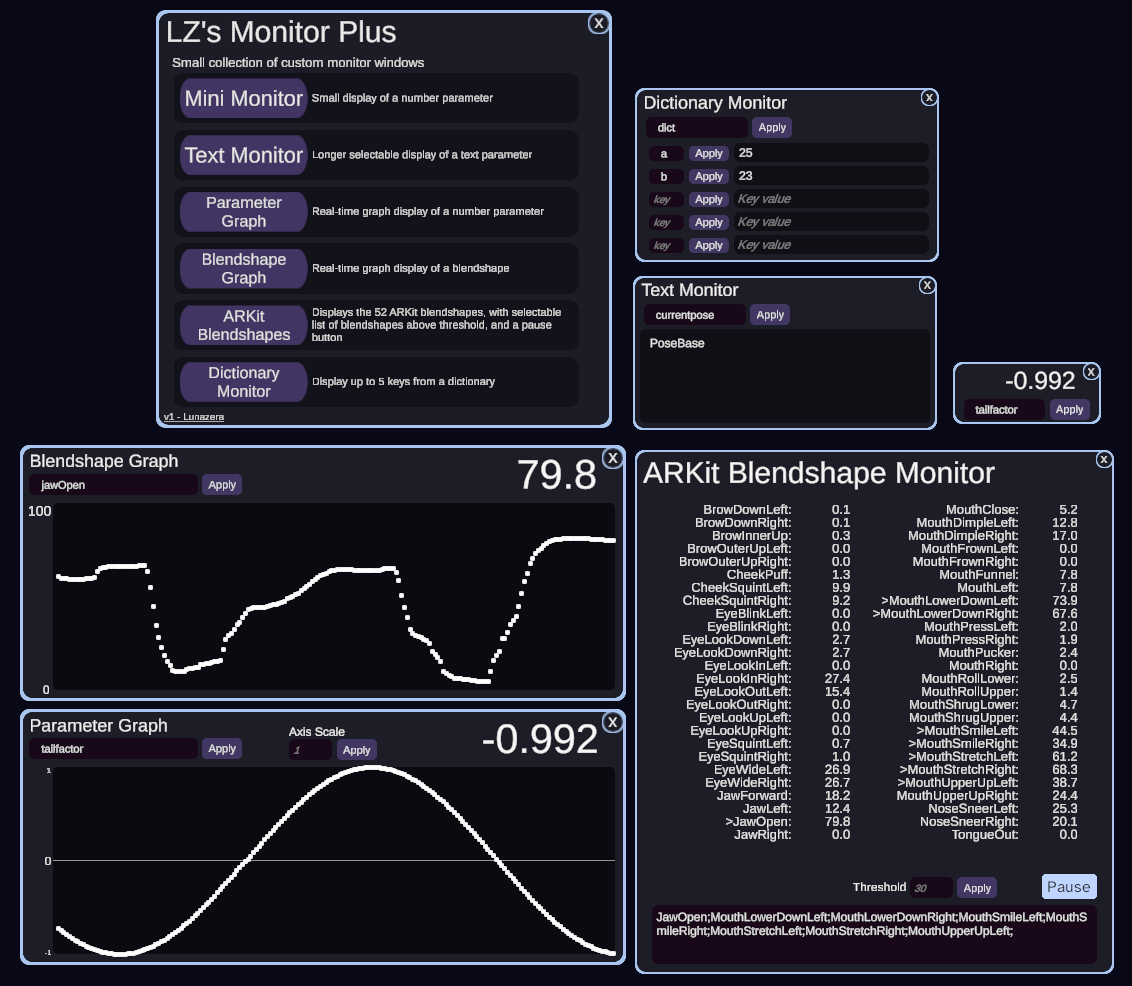
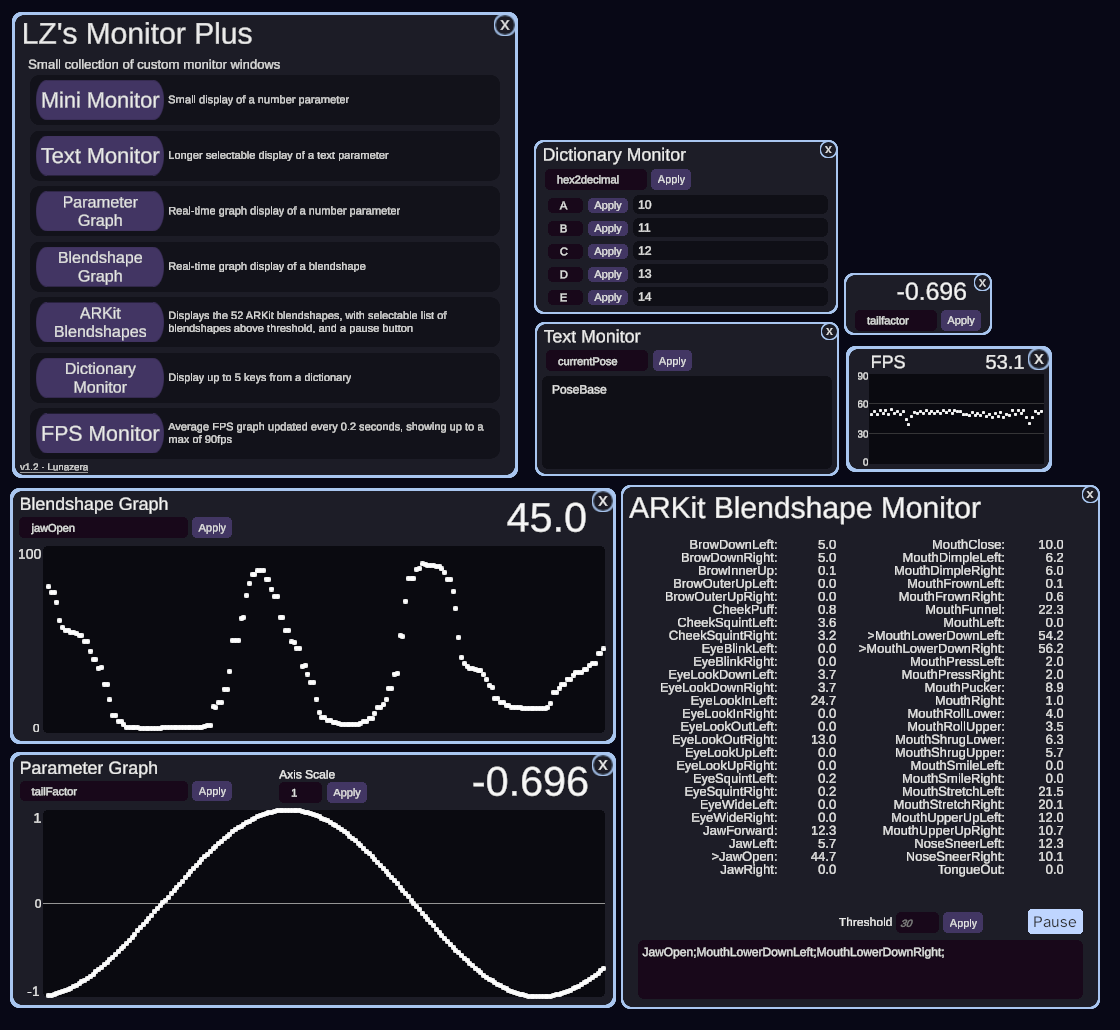
quick adjustment/fix for some of the graphs, linked axis text to change theme functions

diff --git a/project_files/src/FPSMonitor.cs b/project_files/src/FPSMonitor.cs
@@ -46,6 +46,12 @@ namespace VNyanMonitorPlus
         [SerializeField] private float MaxFPS = 120f;
         private float[]? DataArray;
 
+        [Header("FPS Graph axis")]
+        [SerializeField] private TMP_Text axis0;
+        [SerializeField] private TMP_Text axis30;
+        [SerializeField] private TMP_Text axis60;
+        [SerializeField] private TMP_Text axis90;
+
         public void AddNewPoint(Vector3 position, int i)
         {
             GameObject datum = Instantiate<GameObject>(DataPointPrefab);
@@ -160,6 +166,11 @@ namespace VNyanMonitorPlus
             closeButton.GetComponent<Outline>().effectColor = Borders;
             closeButton.GetComponentInChildren<TMP_Text>().color = TextColor;
             FPSText.GetComponent<TMP_Text>().color = TextColor;
+
+            axis0.color = PanelComponentTextColor;
+            axis30.color = PanelComponentTextColor;
+            axis60.color = PanelComponentTextColor;
+            axis90.color = PanelComponentTextColor;
         }
 
         public void OnDrag(PointerEventData eventData)

diff --git a/project_files/src/BlendshapeGraph.cs b/project_files/src/BlendshapeGraph.cs
@@ -39,6 +39,8 @@ namespace VNyanMonitorPlus
         private float spaceBetweenPoint;
         private float axisHeightLimits = 100;
         [SerializeField] public TMP_Text parameterValueText;
+        [SerializeField] private TMP_Text axis0;
+        [SerializeField] private TMP_Text axis100;
 
         [Header("Controls")]
         [SerializeField] private TMP_Text axisMax;
@@ -181,6 +183,9 @@ namespace VNyanMonitorPlus
             closeButton.GetComponent<Image>().color = Panel;
             closeButton.GetComponent<Outline>().effectColor = Borders;
             closeButton.GetComponentInChildren<TMP_Text>().color = TextColor;
+
+            axis0.color = PanelComponentTextColor;
+            axis100.color = PanelComponentTextColor;
 
             // Text for parameter display
             parameterValueText.GetComponent<TMP_Text>().color = TextColor;

diff --git a/project_files/src/ParamGraph.cs b/project_files/src/ParamGraph.cs
@@ -39,6 +39,7 @@ namespace VNyanMonitorPlus
         private float spaceBetweenPoint;
         private float axisHeightLimits = 100;
         [SerializeField] public TMP_Text parameterValueText;
+        [SerializeField] public TMP_Text axiszero;
 
         [Header("Controls")]
         [SerializeField] private TMP_Text axisMin;
@@ -186,6 +187,10 @@ namespace VNyanMonitorPlus
             closeButton.GetComponentInChildren<TMP_Text>().color = TextColor;
 
             parameterValueText.GetComponent<TMP_Text>().color = TextColor;
+
+            axisMin.color = PanelComponentTextColor;
+            axisMax.color = PanelComponentTextColor;
+            axiszero.color = PanelComponentTextColor;
 
             // Set Axis input colours 
             // Input field colors